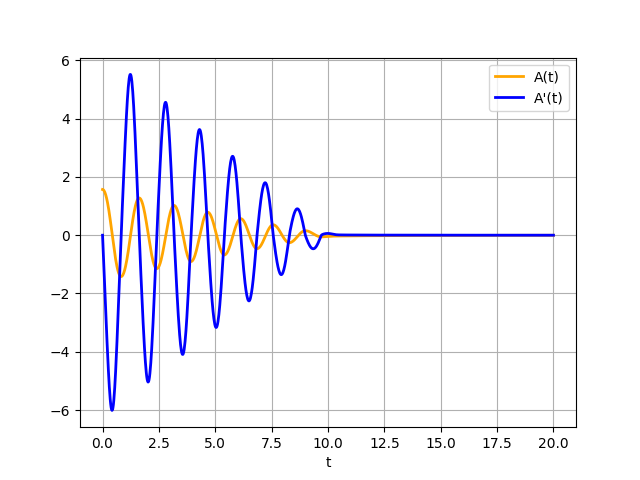
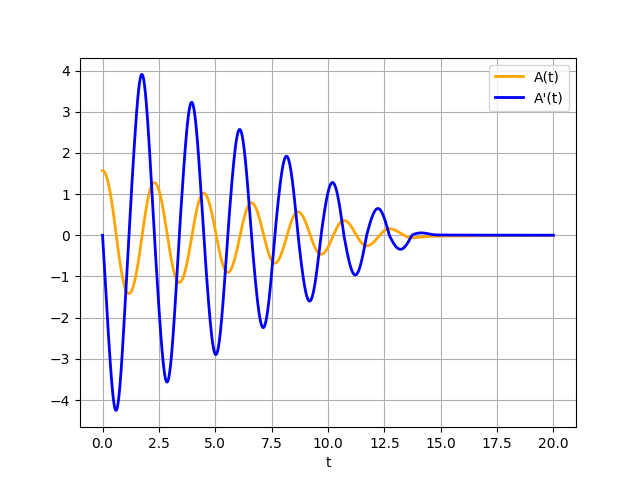
Added the Python code for the ode.py.

diff --git a/weblog/index.html b/weblog/index.html
@@ -1010,21 +1010,136 @@ where $a = \theta_\max \in (0, \pi / 2)$. Above we relied on the following Wolfr
 			$$
 			\begin{aligned}
 				0 &= \frac{\mathrm{d}}{\mathrm{d}t} \Bigg[ mgr - mgr\cos A(t) + \frac{1}{2} mr^2 \Bigg( \frac{\mathrm{d}A(t)}{\mathrm{d}t} \Bigg)^2 + \phi \int_0^t \Bigg| \frac{\mathrm{d}A(x)}{\mathrm{d}x} \Bigg| \; \mathrm{d}x \Bigg] \\
-				  &= mgr \sin A(t) A'(t) + \frac{1}{2} mr^2 A'(t) A^{''}(t) + \phi |A'(t)|.
+				  &= mgr \sin A(t) A'(t) + mr^2 A'(t) A^{''}(t) + \phi |A'(t)|.
 			\end{aligned}
 			$$
 			Next, let us rewrite the above differential equation:
 			$$
-			\frac{1}{2}mr^2 A^{''}(t) A'(t) = - mgr \sin A(t) A'(t) - \phi |A'(t)|
+			mr^2 A^{''}(t) A'(t) = - mgr \sin A(t) A'(t) - \phi |A'(t)|
 			$$	
 			$$
 			\begin{aligned}
-			A^{''}(t) &= - \frac{-mgr \sin A(t) A'(t) - \phi |A'(t)|}{\frac{1}{2}mr^2 A'(t)} \\
-			          &= -\frac{2g \sin A(t)}{r} - \frac{2\phi}{mr^2} \mathrm{sgn} \, A'(t).
+			A^{''}(t) &= - \frac{-mgr \sin A(t) A'(t) - \phi |A'(t)|}{mr^2 A'(t)} \\
+			          &= -\frac{g\sin A(t)}{r} - \frac{\phi}{mr^2} \mathrm{sgn} \, A'(t).
 			\end{aligned}
 			$$
 			<p align="left">If we set $m = 2, r = 1, g = 9.81$ and $\phi = 1$, we get the following plot:
+			<p align="center">
 			<img src="AngleODE.png"></img>
+			</p>
+			<p>
+			The above plot was rendered via the following Python script:
+				<div class="demo-highlight"><pre><span></span><span class="kn">import</span> <span class="nn">numpy</span> <span class="k">as</span> <span class="nn">np</span>
+<span class="kn">import</span> <span class="nn">matplotlib.pyplot</span> <span class="k">as</span> <span class="nn">plt</span>
+<span class="kn">from</span> <span class="nn">scipy.integrate</span> <span class="kn">import</span> <span class="n">odeint</span>
+
+
+<span class="n">m</span> <span class="o">=</span> <span class="mf">2.0</span>
+<span class="n">r</span> <span class="o">=</span> <span class="mf">1.0</span>
+<span class="n">g</span> <span class="o">=</span> <span class="mf">9.81</span>
+<span class="n">phi</span> <span class="o">=</span> <span class="mf">1.0</span>
+
+
+<span class="k">def</span> <span class="nf">zpp</span><span class="p">(</span><span class="n">x</span><span class="p">,</span> <span class="n">t</span><span class="p">):</span>
+    <span class="k">return</span> <span class="p">[</span><span class="n">x</span><span class="p">[</span><span class="mi">1</span><span class="p">],</span> <span class="o">-</span><span class="n">g</span> <span class="o">*</span> <span class="n">np</span><span class="o">.</span><span class="n">sin</span><span class="p">(</span><span class="n">x</span><span class="p">[</span><span class="mi">0</span><span class="p">])</span> <span class="o">/</span> <span class="n">r</span> <span class="o">-</span> <span class="n">phi</span> <span class="o">/</span> <span class="p">(</span><span class="n">m</span> <span class="o">*</span> <span class="n">r</span> <span class="o">**</span> <span class="mi">2</span><span class="p">)</span> <span class="o">*</span> <span class="n">x</span><span class="p">[</span><span class="mi">1</span><span class="p">]</span> <span class="o">/</span> <span class="p">(</span><span class="nb">abs</span><span class="p">(</span><span class="n">x</span><span class="p">[</span><span class="mi">1</span><span class="p">])</span> <span class="o">+</span> <span class="mf">0.01</span><span class="p">)]</span>
+
+
+<span class="n">y0</span> <span class="o">=</span> <span class="p">[</span><span class="n">np</span><span class="o">.</span><span class="n">pi</span> <span class="o">/</span> <span class="mf">2.0</span><span class="p">,</span> <span class="mf">0.0</span><span class="p">]</span>
+<span class="n">t</span> <span class="o">=</span> <span class="n">np</span><span class="o">.</span><span class="n">linspace</span><span class="p">(</span><span class="mi">0</span><span class="p">,</span> <span class="mi">20</span><span class="p">,</span> <span class="mi">1001</span><span class="p">)</span>
+<span class="n">angle</span><span class="p">,</span> <span class="n">angular_v</span> <span class="o">=</span> <span class="n">odeint</span><span class="p">(</span><span class="n">zpp</span><span class="p">,</span> <span class="n">y0</span><span class="p">,</span> <span class="n">t</span><span class="p">)</span><span class="o">.</span><span class="n">T</span>
+
+<span class="n">plt</span><span class="o">.</span><span class="n">plot</span><span class="p">(</span><span class="n">t</span><span class="p">,</span> <span class="n">angle</span><span class="p">,</span> <span class="s2">"orange"</span><span class="p">,</span> <span class="n">label</span><span class="o">=</span><span class="s2">"A(t)"</span><span class="p">,</span> <span class="n">linewidth</span><span class="o">=</span><span class="mi">2</span><span class="p">)</span>
+<span class="n">plt</span><span class="o">.</span><span class="n">plot</span><span class="p">(</span><span class="n">t</span><span class="p">,</span> <span class="n">angular_v</span><span class="p">,</span> <span class="s2">"blue"</span><span class="p">,</span> <span class="n">label</span><span class="o">=</span><span class="s2">"A'(t)"</span><span class="p">,</span> <span class="n">linewidth</span><span class="o">=</span><span class="mi">2</span><span class="p">)</span>
+<span class="n">plt</span><span class="o">.</span><span class="n">legend</span><span class="p">(</span><span class="n">loc</span><span class="o">=</span><span class="s2">"best"</span><span class="p">)</span>
+<span class="n">plt</span><span class="o">.</span><span class="n">xlabel</span><span class="p">(</span><span class="s2">"t"</span><span class="p">)</span>
+<span class="n">plt</span><span class="o">.</span><span class="n">grid</span><span class="p">()</span>
+<span class="n">plt</span><span class="o">.</span><span class="n">show</span><span class="p">()</span>  
+</pre></div>
+<style id="css-style">pre { line-height: 125%; }
+td.linenos .normal { color: #3c4354; background-color: transparent; padding-left: 5px; padding-right: 5px; }
+span.linenos { color: #3c4354; background-color: transparent; padding-left: 5px; padding-right: 5px; }
+td.linenos .special { color: #3c4354; background-color: #ffffc0; padding-left: 5px; padding-right: 5px; }
+span.linenos.special { color: #3c4354; background-color: #ffffc0; padding-left: 5px; padding-right: 5px; }
+.demo-highlight .hll { background-color: #6e7681 }
+.demo-highlight { background: #1d2331; color: #d4d2c8 }
+.demo-highlight .c { color: #7e8aa1 } /* Comment */
+.demo-highlight .err { color: #f88f7f } /* Error */
+.demo-highlight .esc { color: #d4d2c8 } /* Escape */
+.demo-highlight .g { color: #d4d2c8 } /* Generic */
+.demo-highlight .k { color: #FFAD66 } /* Keyword */
+.demo-highlight .l { color: #D5FF80 } /* Literal */
+.demo-highlight .n { color: #d4d2c8 } /* Name */
+.demo-highlight .o { color: #FFAD66 } /* Operator */
+.demo-highlight .x { color: #d4d2c8 } /* Other */
+.demo-highlight .p { color: #d4d2c8 } /* Punctuation */
+.demo-highlight .ch { color: #f88f7f; font-style: italic } /* Comment.Hashbang */
+.demo-highlight .cm { color: #7e8aa1 } /* Comment.Multiline */
+.demo-highlight .cp { color: #FFAD66; font-weight: bold } /* Comment.Preproc */
+.demo-highlight .cpf { color: #7e8aa1 } /* Comment.PreprocFile */
+.demo-highlight .c1 { color: #7e8aa1 } /* Comment.Single */
+.demo-highlight .cs { color: #7e8aa1; font-style: italic } /* Comment.Special */
+.demo-highlight .gd { color: #f88f7f; background-color: #3d1e20 } /* Generic.Deleted */
+.demo-highlight .ge { color: #d4d2c8; font-style: italic } /* Generic.Emph */
+.demo-highlight .ges { color: #d4d2c8 } /* Generic.EmphStrong */
+.demo-highlight .gr { color: #f88f7f } /* Generic.Error */
+.demo-highlight .gh { color: #d4d2c8 } /* Generic.Heading */
+.demo-highlight .gi { color: #6ad4af; background-color: #19362c } /* Generic.Inserted */
+.demo-highlight .go { color: #7e8aa1 } /* Generic.Output */
+.demo-highlight .gp { color: #d4d2c8 } /* Generic.Prompt */
+.demo-highlight .gs { color: #d4d2c8; font-weight: bold } /* Generic.Strong */
+.demo-highlight .gu { color: #d4d2c8 } /* Generic.Subheading */
+.demo-highlight .gt { color: #f88f7f } /* Generic.Traceback */
+.demo-highlight .kc { color: #FFAD66 } /* Keyword.Constant */
+.demo-highlight .kd { color: #FFAD66 } /* Keyword.Declaration */
+.demo-highlight .kn { color: #FFAD66 } /* Keyword.Namespace */
+.demo-highlight .kp { color: #FFAD66 } /* Keyword.Pseudo */
+.demo-highlight .kr { color: #FFAD66 } /* Keyword.Reserved */
+.demo-highlight .kt { color: #73D0FF } /* Keyword.Type */
+.demo-highlight .ld { color: #D5FF80 } /* Literal.Date */
+.demo-highlight .m { color: #DFBFFF } /* Literal.Number */
+.demo-highlight .s { color: #D5FF80 } /* Literal.String */
+.demo-highlight .na { color: #FFD173 } /* Name.Attribute */
+.demo-highlight .nb { color: #FFD173 } /* Name.Builtin */
+.demo-highlight .nc { color: #73D0FF } /* Name.Class */
+.demo-highlight .no { color: #FFD173 } /* Name.Constant */
+.demo-highlight .nd { color: #7e8aa1; font-weight: bold; font-style: italic } /* Name.Decorator */
+.demo-highlight .ni { color: #95E6CB } /* Name.Entity */
+.demo-highlight .ne { color: #73D0FF } /* Name.Exception */
+.demo-highlight .nf { color: #FFD173 } /* Name.Function */
+.demo-highlight .nl { color: #d4d2c8 } /* Name.Label */
+.demo-highlight .nn { color: #d4d2c8 } /* Name.Namespace */
+.demo-highlight .nx { color: #d4d2c8 } /* Name.Other */
+.demo-highlight .py { color: #FFD173 } /* Name.Property */
+.demo-highlight .nt { color: #5CCFE6 } /* Name.Tag */
+.demo-highlight .nv { color: #d4d2c8 } /* Name.Variable */
+.demo-highlight .ow { color: #FFAD66 } /* Operator.Word */
+.demo-highlight .pm { color: #d4d2c8 } /* Punctuation.Marker */
+.demo-highlight .w { color: #d4d2c8 } /* Text.Whitespace */
+.demo-highlight .mb { color: #DFBFFF } /* Literal.Number.Bin */
+.demo-highlight .mf { color: #DFBFFF } /* Literal.Number.Float */
+.demo-highlight .mh { color: #DFBFFF } /* Literal.Number.Hex */
+.demo-highlight .mi { color: #DFBFFF } /* Literal.Number.Integer */
+.demo-highlight .mo { color: #DFBFFF } /* Literal.Number.Oct */
+.demo-highlight .sa { color: #F29E74 } /* Literal.String.Affix */
+.demo-highlight .sb { color: #D5FF80 } /* Literal.String.Backtick */
+.demo-highlight .sc { color: #D5FF80 } /* Literal.String.Char */
+.demo-highlight .dl { color: #D5FF80 } /* Literal.String.Delimiter */
+.demo-highlight .sd { color: #7e8aa1 } /* Literal.String.Doc */
+.demo-highlight .s2 { color: #D5FF80 } /* Literal.String.Double */
+.demo-highlight .se { color: #95E6CB } /* Literal.String.Escape */
+.demo-highlight .sh { color: #D5FF80 } /* Literal.String.Heredoc */
+.demo-highlight .si { color: #95E6CB } /* Literal.String.Interpol */
+.demo-highlight .sx { color: #95E6CB } /* Literal.String.Other */
+.demo-highlight .sr { color: #95E6CB } /* Literal.String.Regex */
+.demo-highlight .s1 { color: #D5FF80 } /* Literal.String.Single */
+.demo-highlight .ss { color: #DFBFFF } /* Literal.String.Symbol */
+.demo-highlight .bp { color: #5CCFE6 } /* Name.Builtin.Pseudo */
+.demo-highlight .fm { color: #FFD173 } /* Name.Function.Magic */
+.demo-highlight .vc { color: #d4d2c8 } /* Name.Variable.Class */
+.demo-highlight .vg { color: #d4d2c8 } /* Name.Variable.Global */
+.demo-highlight .vi { color: #d4d2c8 } /* Name.Variable.Instance */
+.demo-highlight .vm { color: #d4d2c8 } /* Name.Variable.Magic */
+.demo-highlight .il { color: #DFBFFF } /* Literal.Number.Integer.Long */</style>
 		</article>
 		
 		<!--
